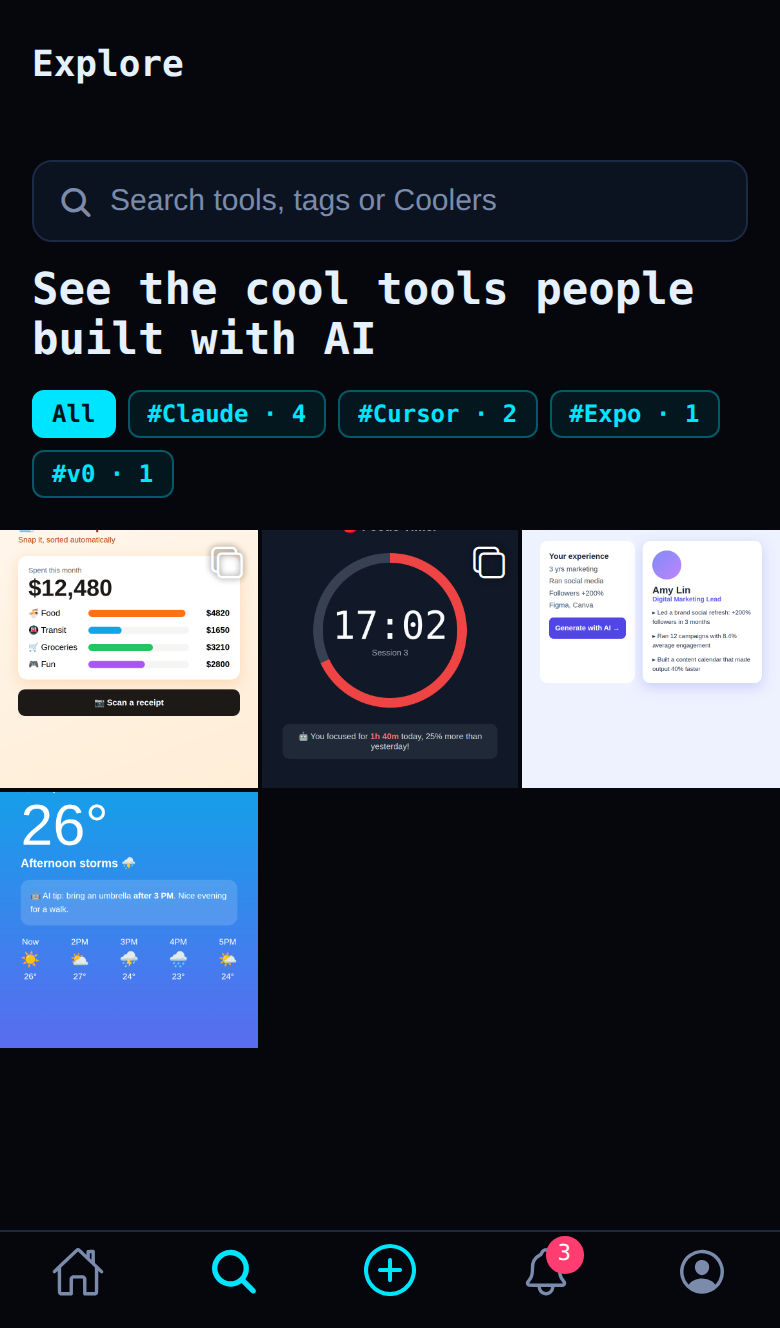
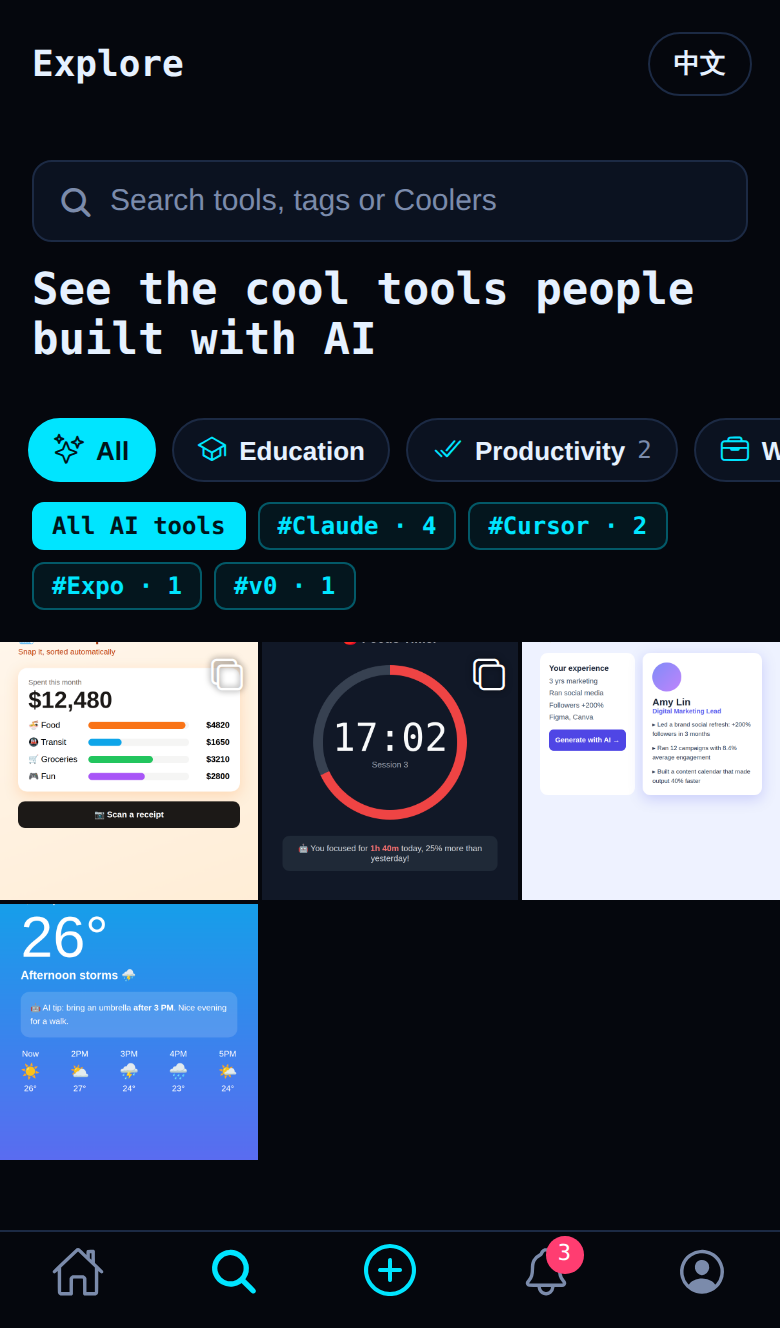
Site: categories, post editing and inline demos
- Two new feature cards (EN/中文): browse by category, edit your post
- Step 2 and the 'Show, don't tell' card mention categories, arrows and
  demos that play in the post
- FAQ and Support: editing a post, what categories are, inline YouTube
- Fresh English and Chinese screenshots showing the category row and
  category badges

Claude-Session: https://claude.ai/code/session_01QmTfduErPhUtKAHBvsP64j

Changed region(s): [[0.0, 0.2779, 1.0, 0.8953], [0.8615, 0.0309, 0.9231, 0.0617]]

diff --git a/zh/index.html b/zh/index.html
@@ -92,7 +92,7 @@
       <div class="card">
         <div class="icon-box"><svg width="24" height="24" viewBox="0 0 24 24" fill="none" stroke="#00e5ff" stroke-width="2" stroke-linecap="round" stroke-linejoin="round" aria-hidden="true"><rect x="3" y="5" width="18" height="14" rx="3"></rect><circle cx="12" cy="12" r="3.2"></circle><path d="M8 5l1.5-2h5L16 5"></path></svg></div>
         <h3>一張圖，就說清楚</h3>
-        <p>每則分享都附上截圖或 YouTube 示範影片，截圖最多 10 張，左右滑著看。你的作品長什麼樣子，大家一眼就懂。</p>
+        <p>每則分享都附上截圖或 YouTube 示範影片，截圖最多 10 張，左右滑或點箭頭切換，影片直接在貼文裡播放。你的作品長什麼樣子，大家一眼就懂。</p>
       </div>
       <div class="card">
         <div class="icon-box"><svg width="24" height="24" viewBox="0 0 24 24" fill="none" stroke="#00e5ff" stroke-width="2" stroke-linecap="round" stroke-linejoin="round" aria-hidden="true"><path d="M13 2 4 14h7l-1 8 9-12h-7z"></path></svg></div>
@@ -123,6 +123,16 @@
         <div class="icon-box"><svg width="24" height="24" viewBox="0 0 24 24" fill="none" stroke="#00e5ff" stroke-width="2" stroke-linecap="round" stroke-linejoin="round" aria-hidden="true"><path d="M9 19c-5 1.5-5-2.5-7-3m14 6v-3.87a3.37 3.37 0 0 0-.94-2.61c3.14-.35 6.44-1.54 6.44-7A5.44 5.44 0 0 0 20 4.77 5.07 5.07 0 0 0 19.91 1S18.73.65 16 2.48a13.38 13.38 0 0 0-7 0C6.27.65 5.09 1 5.09 1A5.07 5.07 0 0 0 5 4.77a5.44 5.44 0 0 0-1.5 3.78c0 5.42 3.3 6.61 6.44 7A3.37 3.37 0 0 0 9 18.13V22"></path></svg></div>
         <h3>連動 GitHub，一鍵帶入作品</h3>
         <p>貼上 GitHub 專案網址按「匯入」，名稱、介紹、網站和用到的 AI 自動填好。分享後附上原始碼按鈕，想看你怎麼做的人一點就到。</p>
+      </div>
+      <div class="card">
+        <div class="icon-box"><svg width="24" height="24" viewBox="0 0 24 24" fill="none" stroke="#00e5ff" stroke-width="2" stroke-linecap="round" stroke-linejoin="round" aria-hidden="true"><rect x="3" y="3" width="7" height="7" rx="1.5"></rect><rect x="14" y="3" width="7" height="7" rx="1.5"></rect><rect x="3" y="14" width="7" height="7" rx="1.5"></rect><rect x="14" y="14" width="7" height="7" rx="1.5"></rect></svg></div>
+        <h3>依興趣領域瀏覽</h3>
+        <p>每個作品都標上應用領域：教育學習、理財記帳、健康運動、遊戲娛樂、開發工具……選一個分類，只看你有興趣的作品。</p>
+      </div>
+      <div class="card">
+        <div class="icon-box"><svg width="24" height="24" viewBox="0 0 24 24" fill="none" stroke="#00e5ff" stroke-width="2" stroke-linecap="round" stroke-linejoin="round" aria-hidden="true"><path d="M12 20h9"></path><path d="M16.5 3.5a2.1 2.1 0 0 1 3 3L7 19l-4 1 1-4z"></path></svg></div>
+        <h3>作品更新，貼文也跟著更新</h3>
+        <p>做出新版本了？隨時編輯貼文：換截圖、換示範影片、改介紹、補上分類都可以。</p>
       </div>
     </div>
   </div>
@@ -160,8 +170,8 @@
       </div>
       <div class="card step">
         <span class="step-num">2</span>
-        <h3>寫一句介紹</h3>
-        <p>工具叫什麼、用了哪些 AI、哪裡可以試用，簡單幾句就好。</p>
+        <h3>寫一句介紹，選個領域</h3>
+        <p>工具叫什麼、用了哪些 AI、哪裡可以試用，簡單幾句就好。再選最多 3 個應用領域，讓對的人找到它。</p>
       </div>
       <div class="card step">
         <span class="step-num">3</span>
@@ -204,6 +214,14 @@
       <details>
         <summary>可以刪除帳號嗎？<svg class="faq-plus" width="20" height="20" viewBox="0 0 24 24" fill="none" stroke="#00e5ff" stroke-width="2" stroke-linecap="round" aria-hidden="true"><path d="M12 5v14M5 12h14"></path></svg></summary>
         <p>可以。在「個人」→「編輯個人檔案」最下方就能永久刪除帳號，你的作品、留言和所有資料都會立即刪除。</p>
+      </details>
+      <details>
+        <summary>分享後還能修改嗎？<svg class="faq-plus" width="20" height="20" viewBox="0 0 24 24" fill="none" stroke="#00e5ff" stroke-width="2" stroke-linecap="round" aria-hidden="true"><path d="M12 5v14M5 12h14"></path></svg></summary>
+        <p>可以。在自己的貼文按「⋯」→「編輯貼文」，文字、連結、YouTube 影片、分類和截圖都能改。</p>
+      </details>
+      <details>
+        <summary>怎麼找到我有興趣的領域？<svg class="faq-plus" width="20" height="20" viewBox="0 0 24 24" fill="none" stroke="#00e5ff" stroke-width="2" stroke-linecap="round" aria-hidden="true"><path d="M12 5v14M5 12h14"></path></svg></summary>
+        <p>首頁和探索頁上方都有分類列，例如教育學習、理財記帳、遊戲娛樂。點貼文上的分類標籤，也能看到同類作品。</p>
       </details>
     </div>
   </div>

diff --git a/index.html b/index.html
@@ -85,7 +85,7 @@
       <div class="card">
         <div class="icon-box"><svg width="24" height="24" viewBox="0 0 24 24" fill="none" stroke="#00e5ff" stroke-width="2" stroke-linecap="round" stroke-linejoin="round" aria-hidden="true"><rect x="3" y="5" width="18" height="14" rx="3"></rect><circle cx="12" cy="12" r="3.2"></circle><path d="M8 5l1.5-2h5L16 5"></path></svg></div>
         <h3>Show, don't tell</h3>
-        <p>Every post needs a screenshot or a YouTube demo. Up to 10 screenshots, swipe through them. People get what your tool does at a glance.</p>
+        <p>Every post needs a screenshot or a YouTube demo. Swipe or tap through up to 10 screenshots, and demos play right in the post. People get what your tool does at a glance.</p>
       </div>
       <div class="card">
         <div class="icon-box"><svg width="24" height="24" viewBox="0 0 24 24" fill="none" stroke="#00e5ff" stroke-width="2" stroke-linecap="round" stroke-linejoin="round" aria-hidden="true"><path d="M13 2 4 14h7l-1 8 9-12h-7z"></path></svg></div>
@@ -116,6 +116,16 @@
         <div class="icon-box"><svg width="24" height="24" viewBox="0 0 24 24" fill="none" stroke="#00e5ff" stroke-width="2" stroke-linecap="round" stroke-linejoin="round" aria-hidden="true"><path d="M12 3l7 3v6c0 4.5-3 7.5-7 9-4-1.5-7-4.5-7-9V6z"></path><path d="M9 12l2 2 4-4"></path></svg></div>
         <h3>A friendly place to share</h3>
         <p>Report what doesn't belong, block anyone you don't want to see, and posts reported by several people are hidden automatically.</p>
+      </div>
+      <div class="card">
+        <div class="icon-box"><svg width="24" height="24" viewBox="0 0 24 24" fill="none" stroke="#00e5ff" stroke-width="2" stroke-linecap="round" stroke-linejoin="round" aria-hidden="true"><rect x="3" y="3" width="7" height="7" rx="1.5"></rect><rect x="14" y="3" width="7" height="7" rx="1.5"></rect><rect x="3" y="14" width="7" height="7" rx="1.5"></rect><rect x="14" y="14" width="7" height="7" rx="1.5"></rect></svg></div>
+        <h3>Browse by what you care about</h3>
+        <p>Every project is tagged with what it's for: education, finance, health, games, developer tools and more. Pick a category and see only what matters to you.</p>
+      </div>
+      <div class="card">
+        <div class="icon-box"><svg width="24" height="24" viewBox="0 0 24 24" fill="none" stroke="#00e5ff" stroke-width="2" stroke-linecap="round" stroke-linejoin="round" aria-hidden="true"><path d="M12 20h9"></path><path d="M16.5 3.5a2.1 2.1 0 0 1 3 3L7 19l-4 1 1-4z"></path></svg></div>
+        <h3>Keep your post up to date</h3>
+        <p>Shipped a new version? Edit your post any time: swap screenshots, update the demo, change the description or add categories.</p>
       </div>
     </div>
   </div>
@@ -151,8 +161,8 @@
       </div>
       <div class="card step">
         <span class="step-num">2</span>
-        <h3>Paste your GitHub repo</h3>
-        <p>We fill in the name, description, website and AI tools. Add a line or two in your own words.</p>
+        <h3>Paste your GitHub repo and pick a category</h3>
+        <p>We fill in the name, description, website and AI tools. Choose up to 3 categories so the right people find it.</p>
       </div>
       <div class="card step">
         <span class="step-num">3</span>
@@ -190,6 +200,14 @@
       <details>
         <summary>Can I delete my account?<svg class="faq-plus" width="20" height="20" viewBox="0 0 24 24" fill="none" stroke="#00e5ff" stroke-width="2" stroke-linecap="round" aria-hidden="true"><path d="M12 5v14M5 12h14"></path></svg></summary>
         <p>Yes, any time, inside the app. Your posts, comments and all your data are deleted immediately.</p>
+      </details>
+      <details>
+        <summary>Can I edit a post after sharing it?<svg class="faq-plus" width="20" height="20" viewBox="0 0 24 24" fill="none" stroke="#00e5ff" stroke-width="2" stroke-linecap="round" aria-hidden="true"><path d="M12 5v14M5 12h14"></path></svg></summary>
+        <p>Yes. Tap "⋯" on your post and choose Edit post. You can change the text, links, YouTube demo, categories and screenshots.</p>
+      </details>
+      <details>
+        <summary>How do I find projects in my field?<svg class="faq-plus" width="20" height="20" viewBox="0 0 24 24" fill="none" stroke="#00e5ff" stroke-width="2" stroke-linecap="round" aria-hidden="true"><path d="M12 5v14M5 12h14"></path></svg></summary>
+        <p>Use the category row on Home or Explore, for example Education, Finance or Games. Tap a category on any post to see similar projects.</p>
       </details>
     </div>
   </div>

diff --git a/zh/support.html b/zh/support.html
@@ -44,12 +44,20 @@
       <p>可以。分享時在「GitHub 專案」貼上 owner/repo 或 github.com 的專案網址，按「匯入」，App 會自動帶入專案名稱、介紹、網站，以及標在 topics 裡的 AI 工具（只會填入還空著的欄位）。分享後貼文會附上 GitHub 按鈕，大家一鍵就能看原始碼。目前支援公開專案，不需要登入 GitHub。也可以在「聯繫我」填上你的 GitHub 帳號。</p>
     </details>
     <details>
+      <summary>分享後還能修改嗎？</summary>
+      <p>可以。點自己貼文右上角的「⋯」→「編輯貼文」，工具名稱、介紹、連結、YouTube 影片、用到的 AI、分類和截圖（移除、新增、替換）都能改。修改後一樣至少要有一張截圖或一個 YouTube 連結。</p>
+    </details>
+    <details>
+      <summary>應用領域分類是什麼？</summary>
+      <p>分類說明這個工具是做什麼用的：教育學習、效率工具、職場商業、理財記帳、健康運動、生活日常、行銷社群、設計創作、開發工具、資料分析、遊戲娛樂、其他。分享時最多選 3 個。大家可以在首頁和探索頁依分類篩選，點貼文上的分類標籤也能看到同類作品。</p>
+    </details>
+    <details>
       <summary>為什麼一定要附截圖或影片？</summary>
       <p>YourWowAI 的精神是「讓作品被看見」。附上畫面，大家才能一眼看懂你的工具在做什麼，所以每則分享都至少要有一張截圖或一個 YouTube 影片連結。</p>
     </details>
     <details>
       <summary>支援哪些檔案？</summary>
-      <p>截圖支援 JPG、PNG、GIF、WebP，每則最多 10 張，每張 20MB 以內，iPhone 的 HEIC 照片會自動轉成大家都能看的格式。影片不用上傳檔案：先把示範影片上傳到 YouTube（設為「公開」或「不公開」都可以，「私人」別人看不到），再把連結貼到「YouTube 示範影片」欄位。youtube.com、youtu.be 和 Shorts 的網址都可以。</p>
+      <p>截圖支援 JPG、PNG、GIF、WebP，每則最多 10 張，每張 20MB 以內，iPhone 的 HEIC 照片會自動轉成大家都能看的格式。影片不用上傳檔案：先把示範影片上傳到 YouTube（設為「公開」或「不公開」都可以，「私人」別人看不到），再把連結貼到「YouTube 示範影片」欄位。youtube.com、youtu.be 和 Shorts 的網址都可以。影片會直接在貼文裡播放。</p>
     </details>
 
     <h2>二、互動</h2>

diff --git a/support.html b/support.html
@@ -41,12 +41,20 @@
       <p>Yes. Paste owner/repo or a github.com URL into the "GitHub project" field and tap Import. The app fills in the name, description, website and any AI tools listed in the repo's topics (only fields that are still empty). Your post gets a GitHub button so people can see the source in one tap. Public repos only, and no GitHub login is needed. You can also add your GitHub account to your profile's contact links.</p>
     </details>
     <details>
+      <summary>Can I edit a post after sharing it?</summary>
+      <p>Yes. Tap "⋯" at the top right of your post → Edit post. You can change the tool name, description, links, YouTube demo, AI tools, categories and screenshots (remove, add or replace them). Every post still needs at least one screenshot or a YouTube link.</p>
+    </details>
+    <details>
+      <summary>What are categories?</summary>
+      <p>Categories say what a tool is for: Education, Productivity, Work &amp; Business, Finance, Health &amp; Fitness, Lifestyle, Marketing, Design &amp; Creative, Developer Tools, Data &amp; Analytics, Games &amp; Fun, or Other. Pick up to 3 when you share. People can filter Home and Explore by category, and tap a category on any post to see similar projects.</p>
+    </details>
+    <details>
       <summary>Why is a screenshot or video required?</summary>
       <p>YourWowAI is about showing real work. A screenshot or demo lets people understand your tool at a glance, so every post needs at least one screenshot or a YouTube link.</p>
     </details>
     <details>
       <summary>What files are supported?</summary>
-      <p>Screenshots can be JPG, PNG, GIF or WebP, up to 10 per post and 20 MB each. iPhone HEIC photos are converted automatically. For video, upload your demo to YouTube (public or unlisted both work; private videos can't be watched by others) and paste the link. youtube.com, youtu.be and Shorts links all work.</p>
+      <p>Screenshots can be JPG, PNG, GIF or WebP, up to 10 per post and 20 MB each. iPhone HEIC photos are converted automatically. For video, upload your demo to YouTube (public or unlisted both work; private videos can't be watched by others) and paste the link. youtube.com, youtu.be and Shorts links all work. The video plays right inside the post.</p>
     </details>
 
     <h2>2. Interaction</h2>
